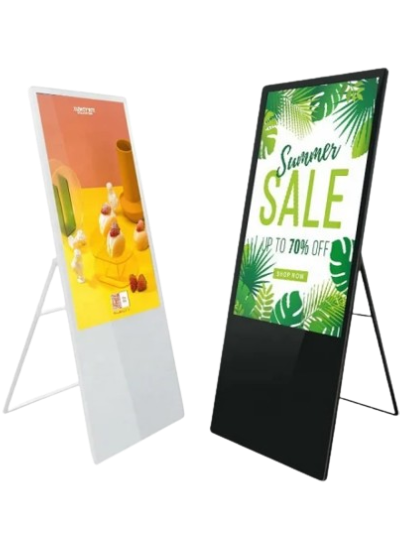
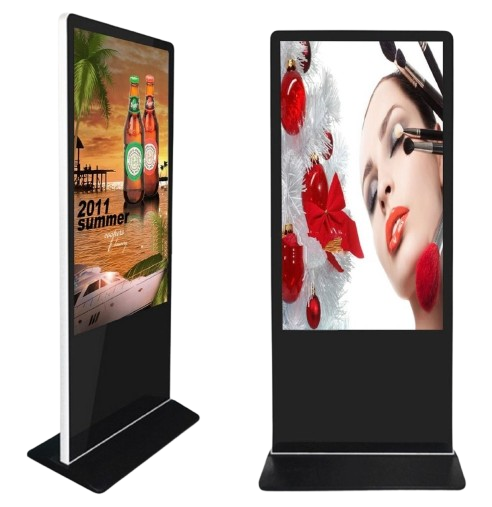
first commit

diff --git a/src/Pages/Contact.jsx b/src/Pages/Contact.jsx
@@ -28,8 +28,8 @@ const Contact = () => {
     {
       id: 1,
       Contact_icon: <FaPhoneVolume />,
-      Contact_para: "+0434264234",
-      Contact_link: "tel:+0434264234",
+      Contact_para: "0434264234",
+      Contact_link: "tel:0434264234",
     },
     {
       id: 2,
@@ -110,9 +110,9 @@ const Contact = () => {
               <div className="bg-gray-100 py-20 px-10 rounded-lg shadow-DarkShadow h-full">
                 <h4 className="mb-3">Contact Details</h4>
                 <p>
-                  We are here to help! If you have any questions or would like to
-                  discuss how our Outdoor Signage & Indoor Signage services can
-                  benefit your business.
+                  We are here to help! If you have any questions or would like
+                  to discuss how our Outdoor Signage & Indoor Signage services
+                  can benefit your business.
                 </p>
                 <div className="mt-10">
                   {ContactJson.map((val) => (
@@ -126,19 +126,39 @@ const Contact = () => {
                     </div>
                   ))}
                   <div className="flex items-center justify-between mt-10">
-                    <a className="text-xl text-red-600" href="#" aria-label="Facebook">
+                    <a
+                      className="text-xl text-red-600"
+                      href="#"
+                      aria-label="Facebook"
+                    >
                       <FaFacebookF />
                     </a>
-                    <a className="text-xl text-red-600" href="#" aria-label="Instagram">
+                    <a
+                      className="text-xl text-red-600"
+                      href="#"
+                      aria-label="Instagram"
+                    >
                       <FaInstagram />
                     </a>
-                    <a className="text-xl text-red-600" href="#" aria-label="Twitter">
+                    <a
+                      className="text-xl text-red-600"
+                      href="#"
+                      aria-label="Twitter"
+                    >
                       <FaTwitter />
                     </a>
-                    <a className="text-xl text-red-600" href="#" aria-label="LinkedIn">
+                    <a
+                      className="text-xl text-red-600"
+                      href="#"
+                      aria-label="LinkedIn"
+                    >
                       <FaLinkedinIn />
                     </a>
-                    <a className="text-xl text-red-600" href="#" aria-label="Google">
+                    <a
+                      className="text-xl text-red-600"
+                      href="#"
+                      aria-label="Google"
+                    >
                       <FaGoogle />
                     </a>
                   </div>

diff --git a/src/Pages/Home.jsx b/src/Pages/Home.jsx
@@ -5,8 +5,13 @@ import AboutCompo from "../component/AboutCompo";
 import { useNavigate } from "react-router-dom";
 import screen1 from "/screen3.webp";
 import outdoor from "/outdoor-img.png";
+import outdoorweb from "/outdoor-two.png";
+
 import screen2 from "/public/indoorsignage.png";
 import ImageSlider from "../component/Hero-section";
+import { useEffect } from "react";
+import "@fancyapps/ui/dist/fancybox/fancybox.css";
+import { Fancybox } from "@fancyapps/ui";
 
 import { Swiper, SwiperSlide } from "swiper/react";
 import { Autoplay, Navigation, Pagination } from "swiper/modules";
@@ -17,11 +22,16 @@ import ServiceCards from "../component/Our-service";
 
 const Home = () => {
   const navigate = useNavigate();
+
+  useEffect(() => {
+    Fancybox.bind("[data-fancybox='gallery']", {});
+  }, []);
+
   const WorkMaping = [
     {
       id: 1,
       workdelay: "100",
-      WorkImg: "/work/work1.webp", // No dot (.) before "/work"
+      WorkImg: "/work/work1.webp",
     },
     {
       id: 2,
@@ -122,7 +132,7 @@ const Home = () => {
               data-aos-duration="1000"
               data-aos-delay="200"
             >
-              <img src={outdoor} alt="Outdoor Signage" className="w-full" />
+              <img src={outdoorweb} alt="Outdoor Signage" className="w-full" />
             </div>
           </div>
 
@@ -192,13 +202,15 @@ const Home = () => {
               className="relative"
             >
               {WorkMaping.map((val) => (
-                <SwiperSlide>
+                <SwiperSlide key={val.id}>
                   <div className="flex items-center justify-center rounded-2xl overflow-hidden">
-                    <img
-                      className="w-full rounded-2xl scale-100 transition-all duration-300 ease-linear hover:scale-125 hover:blur-[1px]"
-                      src={val.WorkImg}
-                      alt={`work ${val.id}`} // Accessibility के लिए alt text दिया
-                    />
+                    <a href={val.WorkImg} data-fancybox="gallery">
+                      <img
+                        className="w-full rounded-2xl scale-100 transition-all duration-300 ease-linear hover:scale-125 hover:blur-[1px]"
+                        src={val.WorkImg}
+                        alt="" 
+                      />
+                    </a>
                   </div>
                 </SwiperSlide>
               ))}
@@ -206,18 +218,19 @@ const Home = () => {
 
             {/* Custom Navigation Buttons */}
             <div
-              class="swiper-button-next"
+              className="swiper-button-next"
               data-aos="fade-right"
               data-aos-delay="800"
             ></div>
             <div
-              class="swiper-button-prev"
+              className="swiper-button-prev"
               data-aos="fade-left"
               data-aos-delay="1000"
             ></div>
           </div>
         </div>
       </div>
+
       <ServiceCards />
       <div className="section">
         <div className="container">

diff --git a/src/Pages/OutdoorSignage.jsx b/src/Pages/OutdoorSignage.jsx
@@ -65,14 +65,14 @@ const OutdoorSignage = () => {
     ]
   return (
     <>
-        <Breadcrumb PageName={'Outdoor Signage'} PageLink={'outdoorsignage'}/>
+        <Breadcrumb PageName={'Outdoor Signage'} PageLink={'outdoor signage'}/>
         <div className='section bg-[url("../circle.webp")] bg-no-repeat bg-contain bg-left'>
             <div className="container">
                 <div className='grid grid-cols-12 place-items-center'>
                     <div className="xl:col-span-7 md:col-span-12 col-span-12" data-aos="fade-right" data-aos-delay="100" data-aos-duration="1000">
                         <div>
                             <div>
-                                <p className='text-Black'><b> 43'Smart Outdoor Signage Portable Screen</b></p>
+                                <p className='text-Black'><b> 43" Smart Outdoor Signage Portable Screen</b></p>
                                 <h2 className='my-3'>New Second Generation</h2>
                                 <h5>Performance Improvement</h5>
                                 <p className='my-3'>Inheriting the exquisite craftsmanship and advanced special effect soft this product series, the appearance design is more beautiful, the piano paint is matched with the wire drawing process, the ultra-thin frame, and Seven new colors are added.</p>

diff --git a/src/index.css b/src/index.css
@@ -148,3 +148,7 @@ html {
   font-size: 22px !important;
   font-weight: bold;
 }
+
+.fancybox__container {
+  z-index: 999999 !important;
+}

diff --git a/src/Pages/DigitalMenu.jsx b/src/Pages/DigitalMenu.jsx
@@ -4,7 +4,7 @@ import Breadcrumb from '../component/Breadcrumb'
 const DigitalMenu = () => {
   return (
     <>
-    <Breadcrumb PageName={"Digital Menu Displays"} PageLink={"digitalmenudisplays"}/>
+    <Breadcrumb PageName={"Digital Menu Displays"} PageLink={"digital menu displays"}/>
     <div className='section bg-[url("../circle.webp")] bg-no-repeat bg-contain bg-left'>
         <div className="container">
             <div className='grid grid-cols-12 gap-x-0 lg:gap-x-4 place-items-center'>

diff --git a/src/Pages/IndoorSignage.jsx b/src/Pages/IndoorSignage.jsx
@@ -60,7 +60,7 @@ const IndoorSignage = () => {
     
   return (
     <>
-        <Breadcrumb PageName={"Indoor Signage"} PageLink={"indoorsignage"}/>
+        <Breadcrumb PageName={"Indoor Signage"} PageLink={"indoor signage"}/>
         <div className='section bg-[url("../circle.webp")] bg-no-repeat bg-contain bg-left'>
             <div className="container">
                 <div className='grid grid-cols-12 place-items-center'>

diff --git a/src/component/Footer.jsx b/src/component/Footer.jsx
@@ -81,7 +81,7 @@ const Footer = () => {
                 </a>
               </ul>
               <ul className="flex items-center justify-start xl:justify-center flex-wrap gap-x-5 mt-5">
-                <a className="text-White" href="tel: +0434264234">
+                <a className="text-White" href="tel: 0434264234">
                   0434264234
                 </a>
                 <a

diff --git a/src/component/Navbar.jsx b/src/component/Navbar.jsx
@@ -1,4 +1,4 @@
-import React, { useState, useEffect } from "react";
+import  { useState, useEffect } from "react";
 import { useNavigate } from "react-router-dom";
 import { FaBars } from "react-icons/fa6";
 import { IoClose } from "react-icons/io5";